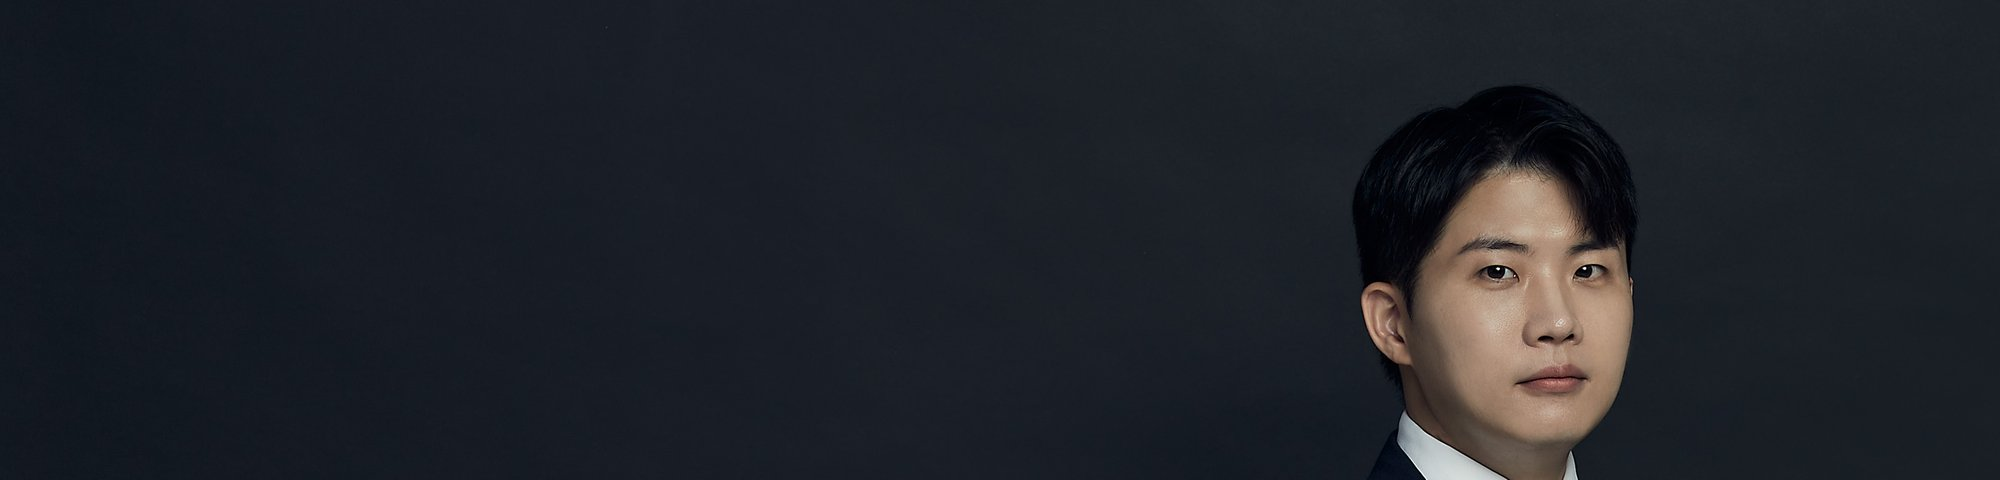
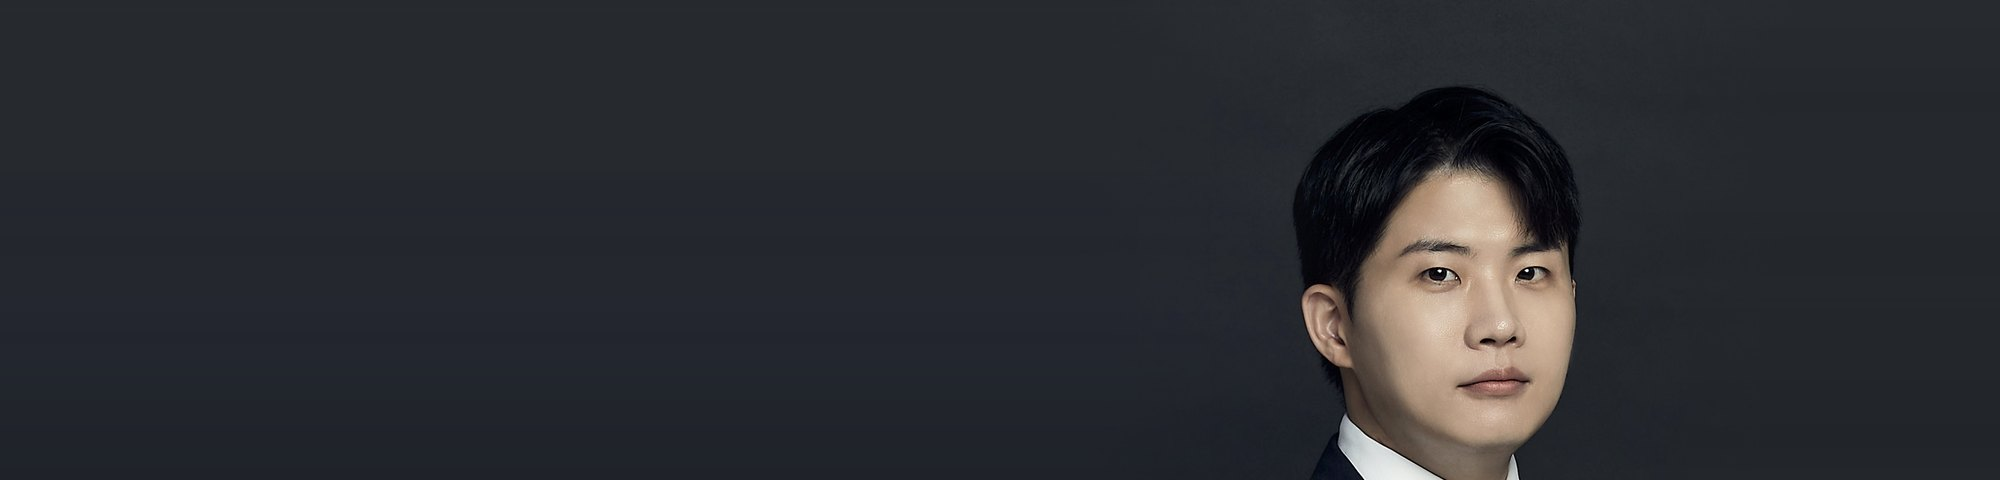
대표변호사 사진 교체, 메인 제목·인사말·경력 문구 수정
- 프로필 사진(attorney.jpg)과 소개 페이지 상단 배너(attorney-wide.jpg)를 보정 사진으로 교체
- 메인 제목: 법률사무소 올본 - 모든 사건의 본질을 봅니다
- 인사말 '올본' 뜻 문구 수정, 업무분야 순서(형사·지식재산권·민사·행정·가사)
- 변리사 경력 4년, 리앤목·리인터내셔널 업무 설명 구체화

Claude-Session: https://claude.ai/code/session_01So7mU2A5cKV6rsqpwBBG91

Changed region(s): [[0.651, 0.1562, 0.837, 1.0]]

diff --git a/attorney.html b/attorney.html
@@ -4,13 +4,13 @@
 <meta charset="UTF-8">
 <meta name="viewport" content="width=device-width, initial-scale=1.0">
 <title>김재훈 대표변호사 | 법률사무소 올본</title>
-<meta name="description" content="변리사 시험 49회·변호사 시험 9회 합격, 연세대 전기전자공학과·서강대 법전원. 특허법인 5년과 법무법인 동인·지평을 거친 김재훈 대표변호사입니다.">
+<meta name="description" content="변리사 시험 49회·변호사 시험 9회 합격, 연세대 전기전자공학과·서강대 법전원. 특허법인 4년과 법무법인 동인·지평을 거친 김재훈 대표변호사입니다.">
 <meta name="keywords" content="변리사 출신 변호사, 지식재산권 변호사, 특허소송 변호사, 김재훈 변호사, 이공계 변호사">
 <link rel="canonical" href="https://www.olbonlaw.com/attorney.html">
 <meta property="og:type" content="profile">
 <meta property="og:site_name" content="법률사무소 올본">
 <meta property="og:title" content="김재훈 대표변호사 | 법률사무소 올본">
-<meta property="og:description" content="변리사·변호사 이중 자격, 전기전자공학 배경. 특허법인 5년과 대형 로펌 IPIT그룹 실무를 거친 지식재산권 중심 변호사입니다.">
+<meta property="og:description" content="변리사·변호사 이중 자격, 전기전자공학 배경. 특허법인 4년과 대형 로펌 IPIT그룹 실무를 거친 지식재산권 중심 변호사입니다.">
 <meta property="og:url" content="https://www.olbonlaw.com/attorney.html">
 <meta property="og:image" content="https://www.olbonlaw.com/assets/images/attorney.jpg">
 <meta property="og:locale" content="ko_KR">
@@ -114,7 +114,7 @@
               <svg viewBox="0 0 24 24"><path d="M14 2H6a2 2 0 0 0-2 2v16a2 2 0 0 0 2 2h12a2 2 0 0 0 2-2V8l-6-6Zm-1 7V3.5L18.5 9H13ZM8 12h8v2H8v-2Zm0 4h8v2H8v-2Z"/></svg>
             </span>
             <h3>대형 특허법인 변리사 경험</h3>
-            <p>변리사로서 리앤목 특허법인·리인터내셔널에서 5년간 출원·중간사건·심판 실무를 수행했습니다. 권리가 만들어지는 과정을 알고 분쟁을 봅니다.</p>
+            <p>변리사로서 4년간 삼성전자, 삼성 종합기술원, 삼성 메디슨, TSMC, 마이크로소프트, 폭스바겐, 나이키, 블랙베리 등 국내 및 해외 기업의 특허 관련 업무를 수행했습니다. 권리가 만들어지는 과정을 알고 분쟁을 봅니다.</p>
           </div>
           <div class="strength-item" data-aos="fade-up" data-aos-delay="80">
             <span class="strength-item__icon" aria-hidden="true">
@@ -187,12 +187,12 @@
               <li class="is-ip">
                 <p class="tl__year">2012 – 2016</p>
                 <p class="tl__title">리앤목 특허법인 <span class="tl__badge">변리사</span></p>
-                <p class="tl__desc">국내외 특허 출원·중간사건 대응 및 특허심판 실무. 전기·전자·통신 분야 명세서 작성과 선행기술 분석을 담당했습니다.</p>
+                <p class="tl__desc">삼성전자, 삼성 종합기술원, 삼성 메디슨의 국내외 특허 출원 등 관련 업무를 수행했습니다.</p>
               </li>
               <li class="is-ip">
                 <p class="tl__year">2016 – 2017</p>
                 <p class="tl__title">리인터내셔널 특허법률사무소 <span class="tl__badge">변리사</span></p>
-                <p class="tl__desc">해외 출원 및 국제 IP 업무. 권리범위 검토와 침해 가능성 자문 경험을 쌓았습니다.</p>
+                <p class="tl__desc">TSMC, 마이크로소프트, 폭스바겐, 나이키, 블랙베리 등 해외 기업의 국내 특허 관련 업무를 수행했습니다.</p>
               </li>
               <li>
                 <p class="tl__year">2020 – 2022</p>

diff --git a/index.html b/index.html
@@ -3,7 +3,7 @@
 <head>
 <meta charset="UTF-8">
 <meta name="viewport" content="width=device-width, initial-scale=1.0">
-<title>법률사무소 올본</title>
+<title>법률사무소 올본 - 모든 사건의 본질을 봅니다</title>
 <meta name="description" content="민사·형사·가사·행정 사건을 대표 변호사가 직접 수행합니다. 변리사·변호사 이중 자격으로 지식재산권까지 대응하는 강남 테헤란로 법률사무소.">
 <meta name="keywords" content="강남 변호사, 테헤란로 변호사, 역삼역 변호사, 지식재산권 변호사, 민사소송 변호사, 형사소송 변호사, 가사소송 변호사, 이혼 변호사, 상속 변호사, 행정소송 변호사, 지식재산권 변호사, 변리사 출신 변호사, 특허 변호사, 상표 변호사, 디자인 변호사, 저작권 변호사">
 <meta name="author" content="법률사무소 올본">
@@ -12,7 +12,7 @@
 <!-- Open Graph -->
 <meta property="og:type" content="website">
 <meta property="og:site_name" content="법률사무소 올본">
-<meta property="og:title" content="법률사무소 올본">
+<meta property="og:title" content="법률사무소 올본 - 모든 사건의 본질을 봅니다">
 <meta property="og:description" content="올바르게 모든 사건의 본질을 봅니다. 민사·형사·가사·행정 전 분야 직접 수행, 변리사 출신으로 지식재산권 분쟁까지 대응합니다.">
 <meta property="og:url" content="https://www.olbonlaw.com/">
 <meta property="og:image" content="https://www.olbonlaw.com/assets/images/og-image-v2.jpg">
@@ -54,7 +54,7 @@
       "@type": "WebPage",
       "@id": "https://www.olbonlaw.com/#webpage",
       "url": "https://www.olbonlaw.com/",
-      "name": "법률사무소 올본",
+      "name": "법률사무소 올본 - 모든 사건의 본질을 봅니다",
       "isPartOf": { "@id": "https://www.olbonlaw.com/#website" },
       "about": { "@id": "https://www.olbonlaw.com/#office" },
       "inLanguage": "ko-KR"
@@ -275,10 +275,10 @@
             “모든 사건에는 결론을 가르는 하나의 지점이 있습니다.<br>그 지점을 찾을 때까지 기록을, 필요하면 도면까지 읽습니다.”
           </blockquote>
           <ul class="intro__list">
-            <li><b>민사·형사·가사·행정</b> 전 분야 사건을 대표 변호사가 직접 수행</li>
+            <li><b>형사·지식재산권·민사·행정·가사</b> 전 분야 사건을 대표 변호사가 직접 수행</li>
             <li>법무법인(유한) 동인 <b>형사팀</b>, 법무법인(유) 지평 <b>IPIT그룹</b> 근무</li>
             <li>서강대학교 법학전문대학원 졸업, <b>변호사 시험 9회</b> 합격</li>
-            <li><b>변리사 시험 49회</b> 합격 후 특허법인·특허법률사무소에서 5년간 실무</li>
+            <li><b>변리사 시험 49회</b> 합격 후 특허법인·특허법률사무소에서 4년간 실무</li>
             <li>연세대학교 <b>전기전자공학과</b> 졸업 — 기술 문서를 직접 읽고 분석</li>
             <li>상담부터 종결까지 담당자가 바뀌지 않는 <b>1인 책임 수행</b> 구조</li>
           </ul>

diff --git a/about.html b/about.html
@@ -77,7 +77,7 @@
           </h2>
 
           <div class="greeting__text">
-            <p>‘올본’은 <b>모든 것(All)</b>을 <b>올바르게, 본질(本)</b>대로 본다는 뜻입니다.
+            <p>‘올본’은 <b>모든(All)</b> 사건의 <b>본질(本)</b>을 올바르게 본다는 뜻입니다.
               사건을 맡을 때 가장 먼저 하는 일은 서면을 쓰는 것이 아니라, 무엇이 진짜 쟁점인지 가려내는 일이라고 믿기 때문입니다.</p>
 
             <p>저는 <b>대형 특허법인 변리사</b>, <b>대형 로펌 형사팀 및 지식재산권팀 변호사</b>로서
